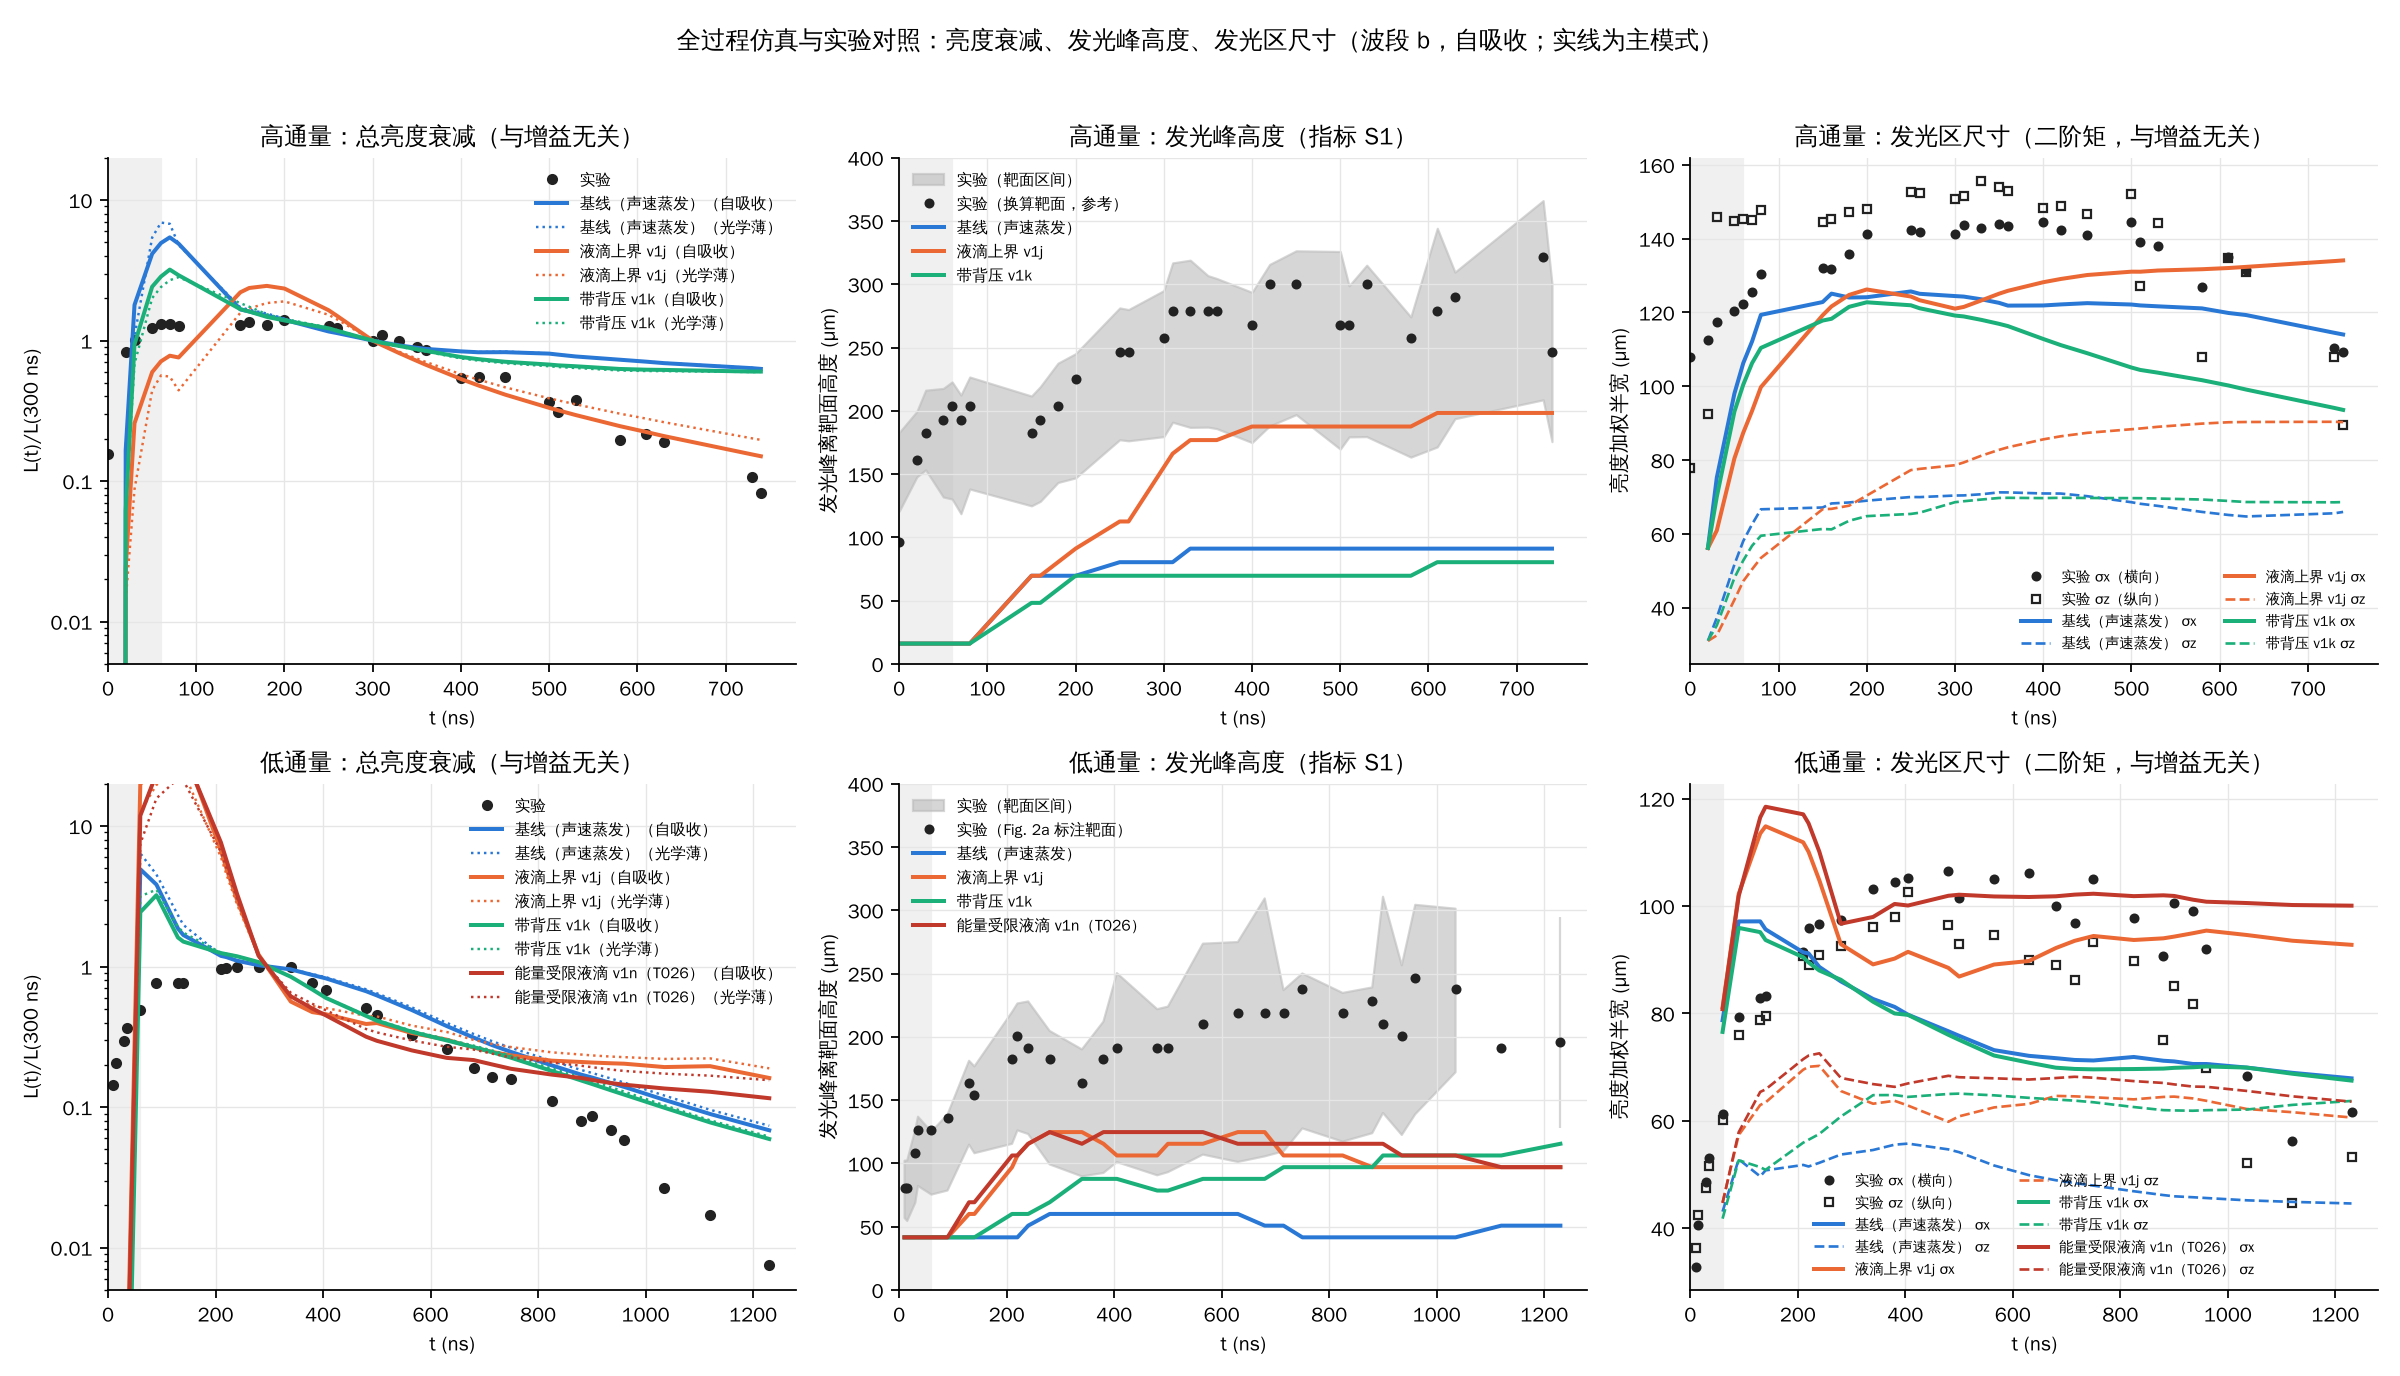
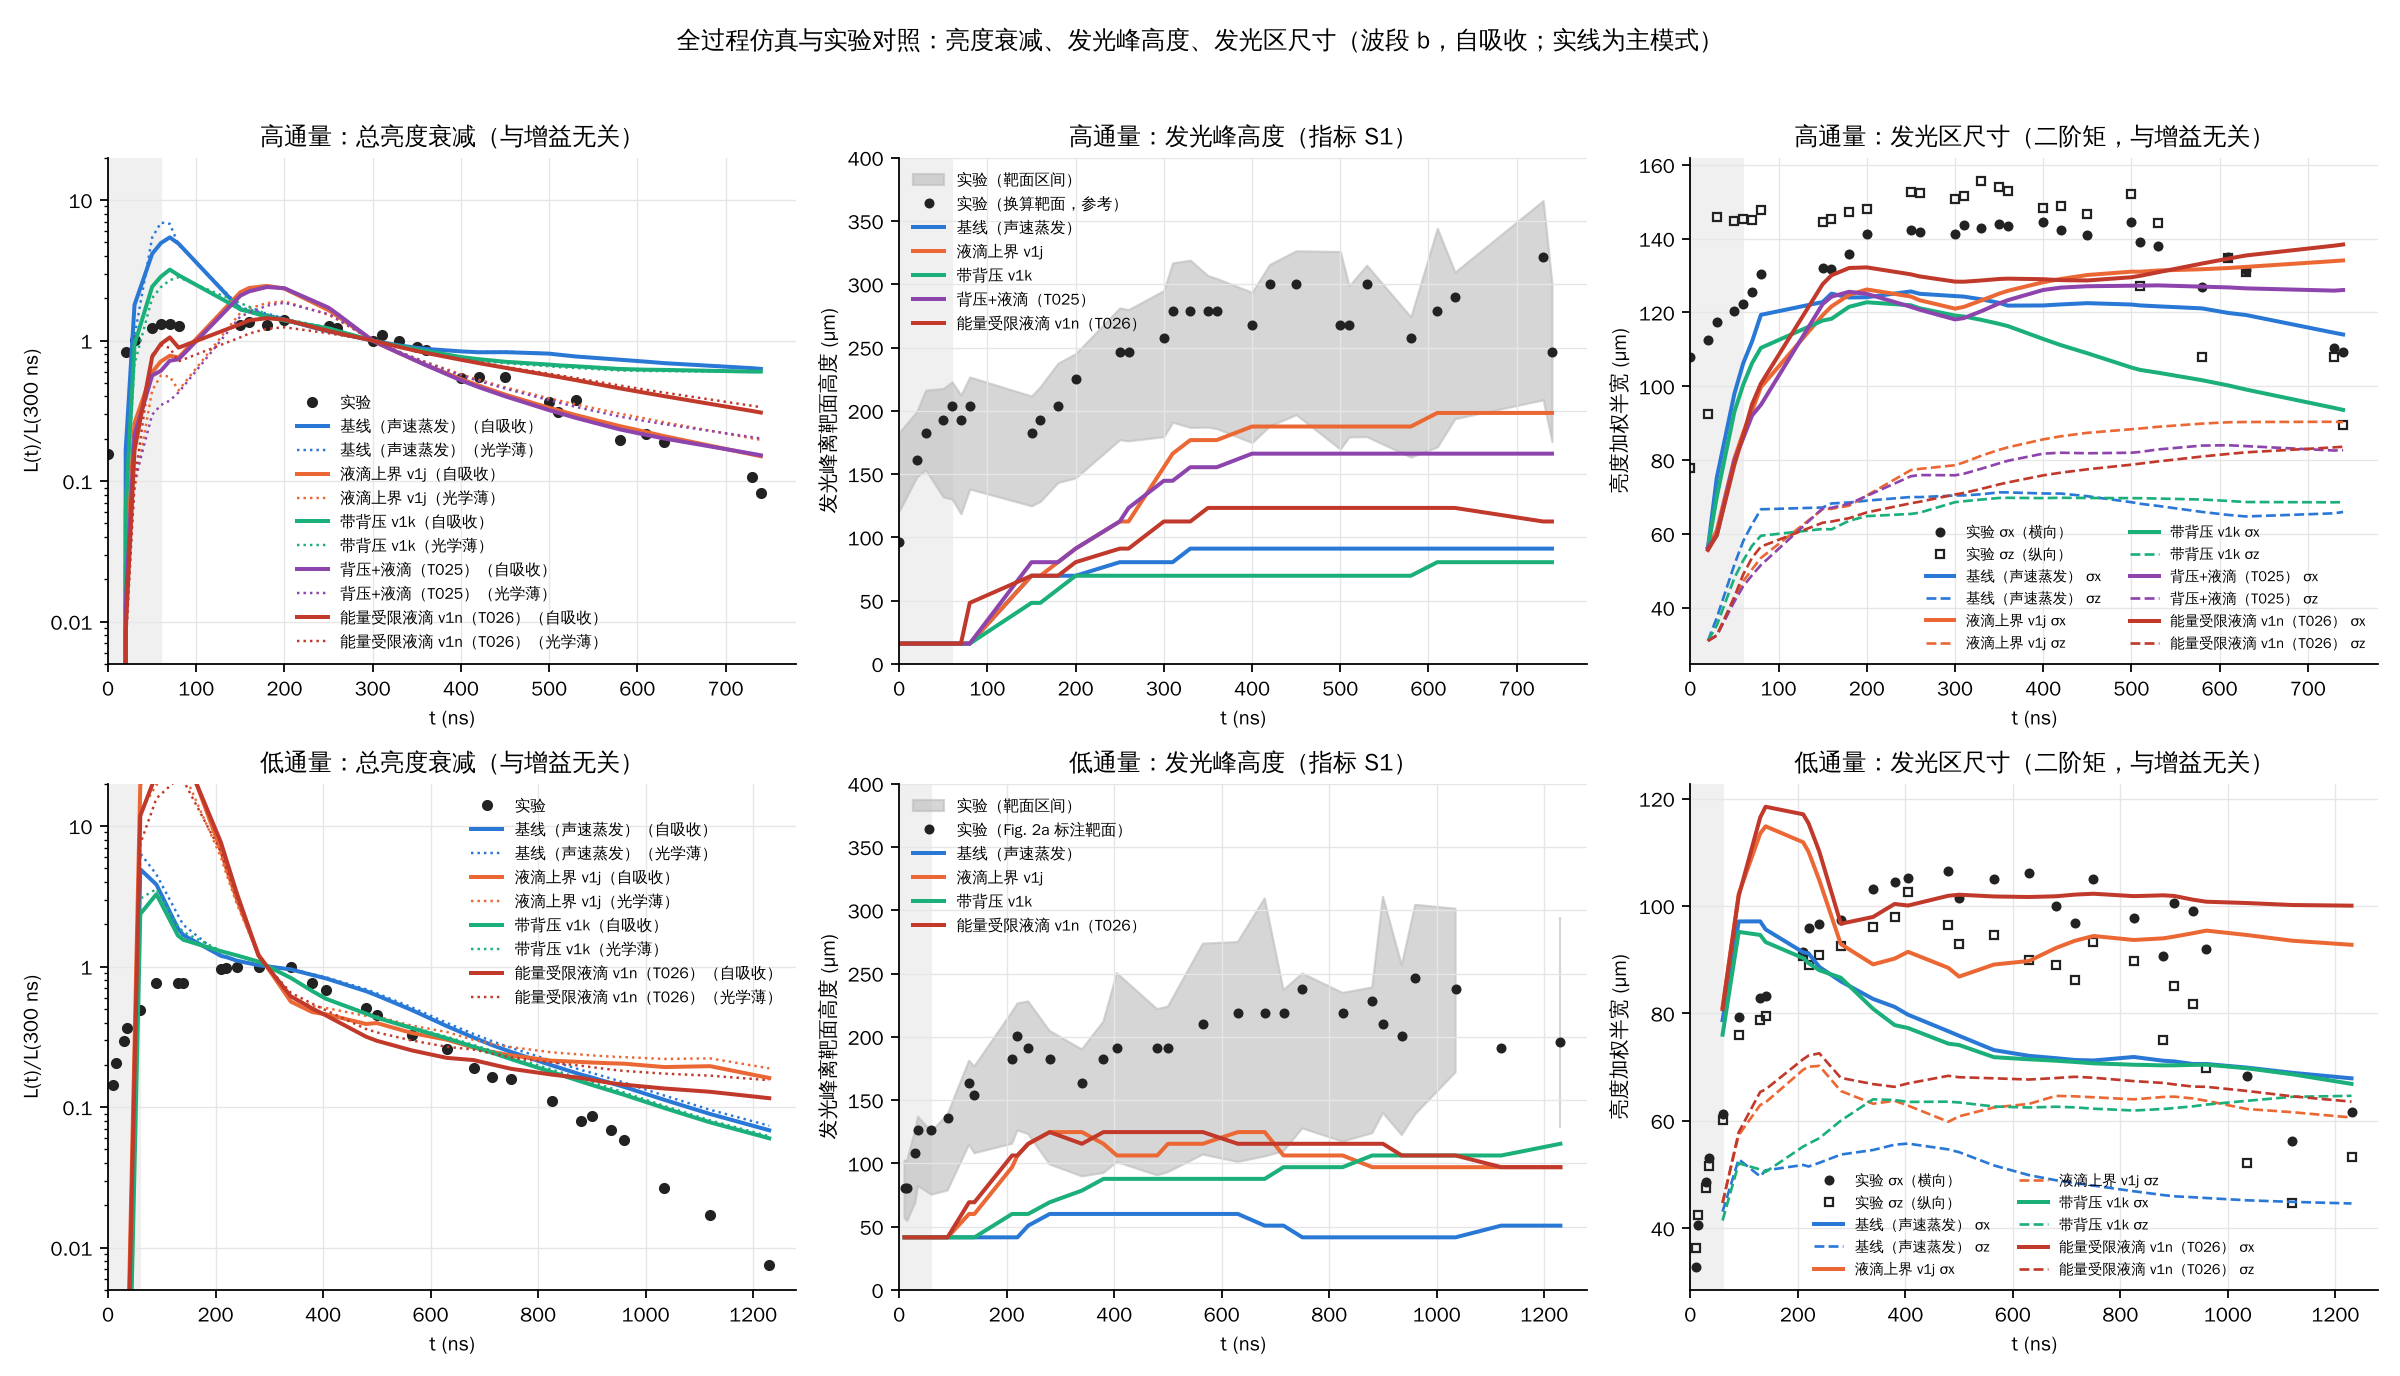
22:00 full comparison: figures and notes (21:30 data)
Claude-Session: https://claude.ai/code/session_01FS7WDGPKzwdDyXZyPwrs24

diff --git a/results/figures/full_comparison_notes.md b/results/figures/full_comparison_notes.md
@@ -1,0 +1,72 @@
+# 全过程仿真与实验对照：要点（2026-11-24 21:30，北京时间）
+
+图：`full_frames_high.png`、`full_frames_low.png`（逐帧）、`full_curves.png`（亮度衰减、发光峰高度、发光区尺寸）、`full_shock.png`（冲击波）。脚本：`scripts/plot_full_comparison.py`。
+
+**统一约定**
+- 波段 b、自吸收成像（光学薄为虚线/点线）、散焦 250 µm。
+- 各行在 300 ns 单独定增益，同一 0–255 色标。
+- 0–60 ns 不评判。
+- 每个模型都用该阶段预注册的报告成员，取已出的最新迭代，不按"像不像实验"挑选，也没有调任何参数。
+- 靶面：低通量用论文 Fig. 2a 作者标注的 Air/Copper 线；高通量是换算值，仅供参考。
+
+## 数字汇总
+
+**高通量**（实验：L(500)/L(300) = 0.368，L(730)/L(300) = 0.107；300 ns 时 σz/σx = 151/141 µm，比值 1.07；冲击波 R(600 ns) ≈ 671 µm）
+
+| 模型（迭代） | L500/L300 | L730/L300 | 发光峰高度中位数 / 达标帧 | σz / σx（比值） | R(600 ns) |
+|---|---|---|---|---|---|
+| 基线 T016e it2 | 0.81 | 0.64 | 91 µm / 0/20 | 70 / 124（0.57） | 649 |
+| 液滴上界 T021 it2 | **0.33** | **0.155** | **177 µm / 7/20** | 79 / 121（0.65） | 649 |
+| 背压 T023 it2 | 0.68 | 0.60 | 70 µm / 0/20 | 69 / 119（0.58） | 609 |
+| 背压+液滴 T025 it1 | **0.32** | **0.157** | 155 µm / 1/20 | 76 / 118（0.64） | 628 |
+| 能量受限液滴 T026 it0 | 0.57 | 0.32 | 123 µm / 0/20 | 71 / 128（0.55） | 691 |
+
+**低通量**（实验：L(715)/L(300) = 0.163，L(1035)/L(300) = 0.027；300 ns 时 σz/σx = 94/99 µm，比值 0.94；冲击波 R(600 ns) ≈ 646 µm）
+
+| 模型（迭代） | L715/L300 | L1035/L300 | 发光峰高度中位数 / 达标帧 | σz / σx（比值） | R(600 ns) |
+|---|---|---|---|---|---|
+| 基线 T016e it1 | 0.28 | 0.11 | 60 µm / 0/11 | 54 / 85（0.64） | — |
+| 液滴上界 T021 it1 | 0.25 | 0.19 | **116 µm / 8/11** | 65 / 92（0.71） | 491 |
+| 背压 T023 it1 | 0.24 | 0.10 | 88 µm / 0/11 | 61 / 85（0.72） | 506 |
+| 能量受限液滴 T026 it0 | **0.20** | 0.14 | **125 µm / 8/11** | 68 / 97（0.70） | 506 |
+
+T025 低通量的成像还没推送。
+
+## 三个目标的现状
+
+1. **亮度衰减**
+   - 高通量：液滴把 L(730)/L(300) 从 0.64 降到 0.155–0.157（T021、T025），与实验（0.107）相差在 2 倍以内，预注册判据 (b) 成立。500 ns 时已基本吻合（0.33 对 0.37）。
+   - 低通量：700 ns 时 T026 最接近实验（0.20 对 0.16）；但 1000 ns 以后所有模型都衰减太慢（0.10–0.19 对 0.027）。
+   - 背压本身对衰减无效：迭代收敛后 L730/L300 为 0.60。
+
+2. **靶面距离（发光峰高度，指标 S1）**
+   - 液滴使发光核离开靶面：高通量中位数从 91 µm 升到 155–177 µm，低通量从 60 µm 升到 116–125 µm。
+   - 低通量 8/11 帧达标，过 70% 门槛；高通量最多 7/20，未过。
+   - 背压不抬升发光核，两种通量都是 0 帧达标。
+
+3. **形貌**
+   - 横向尺寸 σx 基本对上：高通量 118–128 对 141 µm，低通量 85–97 对 99 µm。
+   - 纵向尺寸 σz 所有模型都只有实验的一半左右：高通量 69–79 对 151 µm，低通量 54–68 对 94 µm。
+   - 实验发光区接近圆形（σz/σx ≈ 1），模型偏扁（0.55–0.72）。
+   - 这是目前最大的剩余差距。单靠散焦模糊解释不了，因为模糊会同时放大 σx。
+
+4. **冲击波**
+   - 高通量 200 ns 以后各模型在 −9% 到 +3% 之内。
+   - 低通量模型偏慢（约 −22%）。
+   - 0–100 ns 所有模型都偏晚约 20 ns。
+
+## 预注册判读汇总
+
+| 编号 | 模型 | 结论 |
+|---|---|---|
+| T021 | 液滴上界 v1j | (a)(b)(c) 全部成立：核心比能 44→4.5 MJ/kg，300 ns 发光加权温度 25→8.7 kK，冲击波不变。在上下界之间是充分机制。 |
+| T023 | 背压 v1k | 近壁堆积降约 10 倍，但近壁吸收层仍在（G1 细网格确认已收敛）；发光峰抬升（b）不成立。 |
+| T024 | 双温击穿 v1m | 只提前起燃 1.5 ns，35 ns 后与 v1k 一致；判定无效，已停算。 |
+| T025 | 背压 + 液滴 | (a) 衰减成立，(d) 冲击波成立；S1 和 σz 未改善。 |
+| T026 | 能量受限液滴 v1n | (a) 液滴窗口能量残差 1.1–1.7 µJ → 0.002 µJ，成立；低通量 700 ns 衰减和 S1 为目前最好。高通量 it0 衰减 0.32，需看 it1/it2：it0 的源未屏蔽，背压也曾出现迭代间很大的差别。 |
+
+## 下一步（用户已选定第 1 项）
+
+- **T027 蒸气出口动量 v1p**：Knight 出口动量 ṁu_v，无新参数；对照组是 T026。读法：σz/σx 变化小于 5% 即判定不是缺失机制。
+- **备选**：液滴运动学（论文实测 344 m/s，作独立输入）；辐射输运。都会先预注册。
+- **仍待推送**：T026 高通量 it1/it2、T025 低通量的成像。
